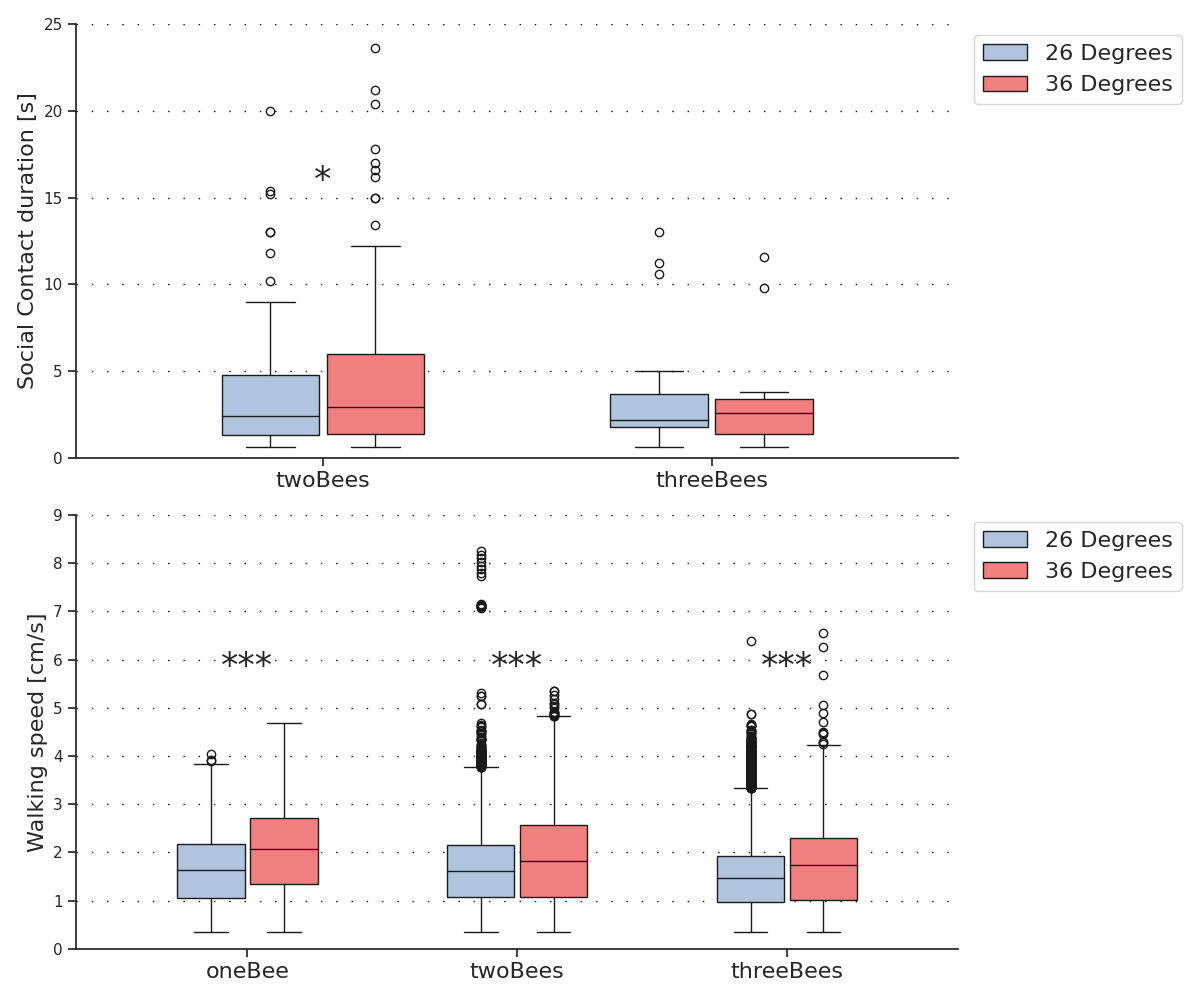
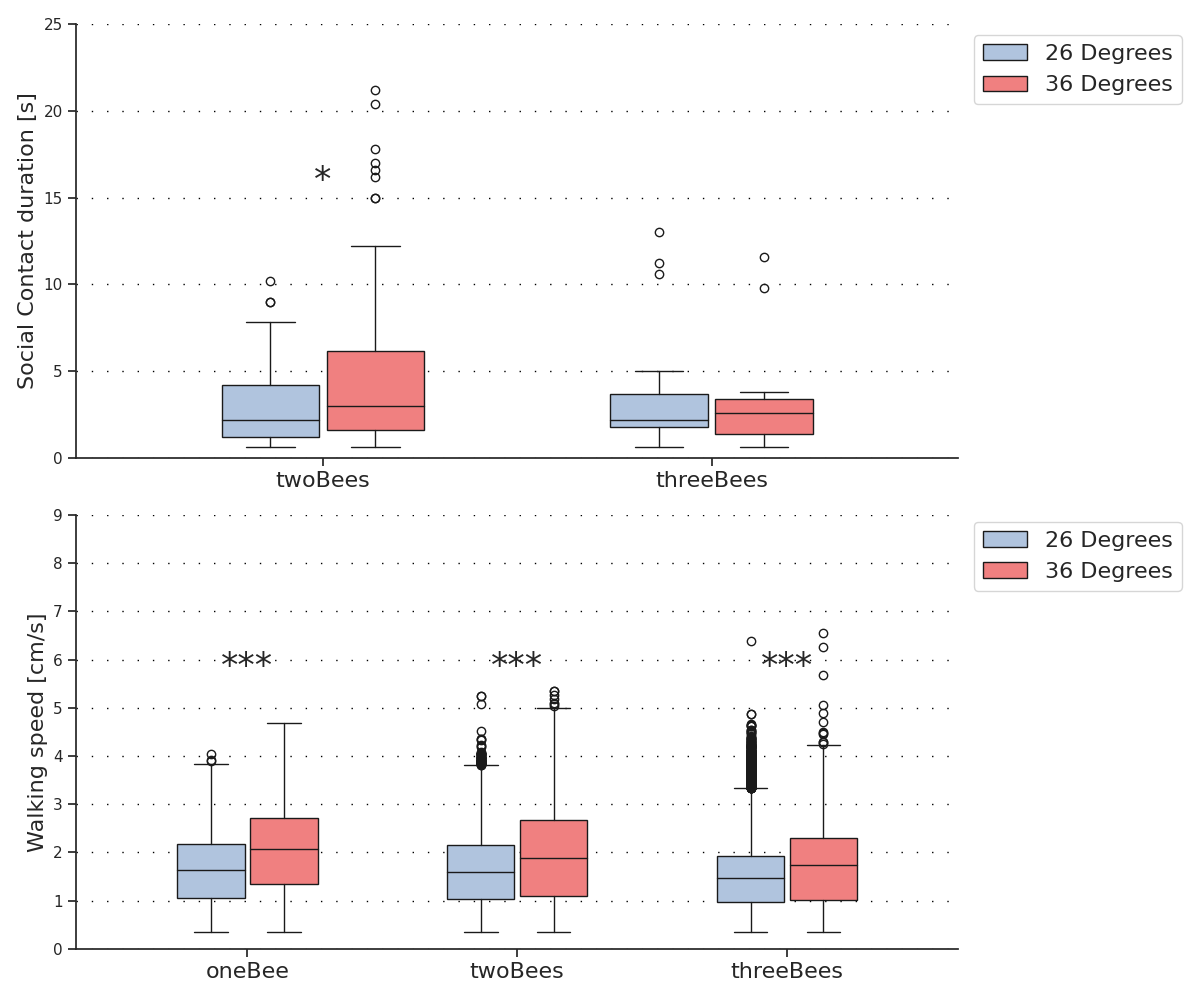
Casu2 experiment analysis

diff --git a/Casu2/DataProcessing.py b/Casu2/DataProcessing.py
@@ -1,16 +1,22 @@
+import os
+
 import pandas as pd
 import numpy as np
 import scipy.stats as stats
 import matplotlib.pyplot as plt
 
+from plottingCasu2 import BoxplotCasu2
+
 def ReadData(url: str) -> pd.DataFrame: 
     """    This function downloads the data from a GoogleTable sheet with the given link and transformes them into a csv and then reads them in into a pd.DataFrame
 
     Args:
-        url (str): 
+        url (str): The URL of the datasheet were the data is stored on the GoogleDrive, the sheet needs to be shared via
+        link with the seeting that everybody with this link can edit. The Link you need for this function is the URL of 
+        the datasheet in the browser.
 
     Returns:
-        pd.DataFrame: _description_
+        pd.DataFrame: Returns a pandas DataFrame with the data from the first sheet for the GoogleTable spreedsheet
     """
     url_read = url.replace('/edit#gid=', '/export?format=csv&gid=')
 
@@ -18,52 +24,46 @@ def ReadData(url: str) -> pd.DataFrame:
 
     return df
 
+def dfProcessing(df, beeNumber, keyword1, keyword2):
+    array1 = np.array([])
+    array2 = np.array([])
+
+    for column in df.columns.values.tolist()[1:]:
+        df[f'{column}'] = df[f'{column}'].apply(lambda x: x/beeNumber*100)
+        if keyword1 in column:
+            array = df[f'{column}'].to_numpy()
+            array1 = np.hstack((array1, array))
+        elif keyword2 in column:
+            array = df[f'{column}'].to_numpy()
+            array2 = np.hstack((array2, array))
+
+    return array1, array2
+
 df = ReadData('https://docs.google.com/spreadsheets/d/1c5eXRyP4uLSDKJ_1PHlx48nZ8wQ06mUr1Ayrty-kfDg/edit#gid=0')
+df_controlTemp = ReadData('https://docs.google.com/spreadsheets/d/1rtl7NfzKXGVWi90JLlAunum5BX6TK17NUiaficQs9q0/edit#gid=0')
+df_controlNoTemp = ReadData('https://docs.google.com/spreadsheets/d/1IzRJBgdS33K6GxaT-alZ26ywCZD9hzXSLbW1mHwKXsA/edit#gid=0')
 
-TempArray = np.array([])
-BeesArray = np.array([])
+Temp, Bees = dfProcessing(df, 6, 'Temp', 'Bienen')
+Temp_cont, noTemp_cont = dfProcessing(df_controlTemp, 5, 'CasuT', 'CasunT')
+noTemp1_cont, noTemp2_cont = dfProcessing(df_controlNoTemp, 5, 'Casu1', 'Casu2')
 
-for column in df.columns.values.tolist()[1:]:
-    df[f'{column}'] = df[f'{column}'].apply(lambda x: x/6*100)
-    if 'Temp' in column:
-        array = df[f'{column}'].to_numpy()
-        TempArray = np.hstack((TempArray, array))
-    elif 'Biene' in column:
-        array = df[f'{column}'].to_numpy()
-        BeesArray = np.hstack((BeesArray, array))
+plot1 = [noTemp2_cont, noTemp_cont, Bees]
+plot2 = [noTemp1_cont, Temp_cont, Temp]
 
-statistic1, p_shapiro1 = stats.shapiro(TempArray)
-statistic2, p_ks1 = stats.kstest(TempArray, 'norm', mode='exact')
-statistic3, p_shapiro2 = stats.shapiro(BeesArray)
-statistic4, p_ks2 = stats.kstest(BeesArray, 'norm', mode='exact')
+statistic1, p_shapiro1 = stats.shapiro(noTemp1_cont)
+statistic2, p_ks1 = stats.kstest(noTemp1_cont, 'norm', mode='exact')
+statistic3, p_shapiro2 = stats.shapiro(noTemp2_cont)
+statistic4, p_ks2 = stats.kstest(noTemp2_cont, 'norm', mode='exact')
+
+statistic5, p_val = stats.mannwhitneyu(noTemp1_cont, noTemp2_cont, use_continuity=True, alternative='less')
+
 
 print(p_shapiro1, p_ks1)
 print(p_shapiro2, p_ks2)
+print(p_val)
 
-labels = ['Bees vs Temp']
-x_axis = np.arange(len(labels))
-WIDTH = 0.25
+labels = ['control', 'empty vs Temp', 'Bees vs Temp']
+path = os.path.realpath(os.path.dirname(__file__))
+path = os.path.join(path, '..', 'graphs')
 
-fig0, ax0 = plt.subplots(figsize=(12, 10))
-ax0.set_ylim(0, 100)
-
-
-plota1 = ax0.boxplot(TempArray, positions=x_axis - WIDTH/2 - 0.01, widths=WIDTH, notch=False, patch_artist=True,
-            boxprops=dict(facecolor='lightsteelblue', color='k'),
-            capprops=dict(color='k'),
-            whiskerprops=dict(color='k'),
-            flierprops=dict(color='k', markeredgecolor='k'),
-            medianprops=dict(color='k'))
-
-plota2 = ax0.boxplot(BeesArray, positions=x_axis + WIDTH/2 + 0.01, widths=WIDTH, notch=False, patch_artist=True,
-            boxprops=dict(facecolor='lightcoral', color='k'),
-            capprops=dict(color='k'),
-            whiskerprops=dict(color='k'),
-            flierprops=dict(color='k', markeredgecolor='k'),
-            medianprops=dict(color='k'))
-
-ax0.grid(which='major', axis='y', linewidth=1, linestyle=(0, (1, 10)), color='black')
-ax0.set_xticks(ticks=x_axis, labels=labels, fontsize=16)
-
-fig0.tight_layout()
-plt.savefig('Boxplot_Casu2.png')
+BoxplotCasu2(plot1, plot2, labels, path)

diff --git a/Casu2/plottingCasu2.py b/Casu2/plottingCasu2.py
@@ -1,0 +1,39 @@
+import os
+
+import matplotlib.pyplot as plt
+import seaborn as sns
+import numpy as np
+
+def BoxplotCasu2(array1, array2, labels, path):
+    sns.set()
+    custom_params = {'axes.spines.right': False, 'axes.spines.top': False}
+    sns.set_theme(style='ticks', rc=custom_params)
+    
+    WIDTH = 0.25
+    x_axis = np.arange(len(labels))
+
+    fig0, ax0 = plt.subplots(figsize=(12, 10))
+    ax0.set_ylim(0, 100)
+
+
+    plota1 = ax0.boxplot(array1, positions=x_axis - WIDTH/2 - 0.01, widths=WIDTH, notch=False, patch_artist=True,
+                boxprops=dict(facecolor='lightsteelblue', color='k'),
+                capprops=dict(color='k'),
+                whiskerprops=dict(color='k'),
+                flierprops=dict(color='k', markeredgecolor='k'),
+                medianprops=dict(color='k'))
+
+    plota2 = ax0.boxplot(array2, positions=x_axis + WIDTH/2 + 0.01, widths=WIDTH, notch=False, patch_artist=True,
+                boxprops=dict(facecolor='lightcoral', color='k'),
+                capprops=dict(color='k'),
+                whiskerprops=dict(color='k'),
+                flierprops=dict(color='k', markeredgecolor='k'),
+                medianprops=dict(color='k'))
+
+
+    ax0.grid(which='major', axis='y', linewidth=1, linestyle=(0, (1, 10)), color='black')
+    ax0.set_xticks(ticks=x_axis, labels=labels, fontsize=16)
+    ax0.legend(loc='best')
+
+    fig0.tight_layout()
+    plt.savefig(os.path.join(path, 'Boxplot_Casu2.png'))
